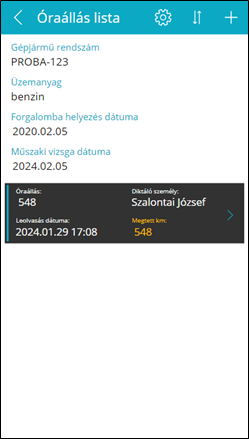
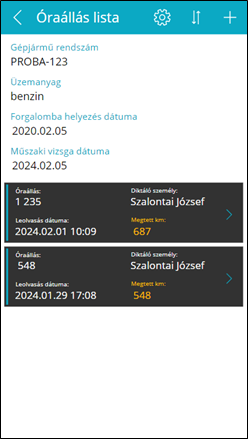
Added/corrected images, more detailed explanations

diff --git a/docs/chapters/mileagerecords/15_NewMileageRecord.md b/docs/chapters/mileagerecords/15_NewMileageRecord.md
@@ -1,5 +1,5 @@
 ---
-grand_parent: Multisoft Km-óraállás diktáló
+grand_parent: Km-óraállás diktáló app
 parent: Óraállások
 title: Új óraállás
 has_children: false
@@ -9,12 +9,13 @@ nav_order: 15
 # Új óraállás
 
 ![new mileage record](static/images/NewMileageRecord.png)
+![new mileage record2](static/images/NewMileageRecord2.png)
 
 Új óraállás rögzítésénél kötelező megadni a következőket:
 -	Aktuális **óraállás**
 -	**Fénykép** a km-óráról (Odometer)
 
-A diktált óraállás értéke nagyobb kell hogy legyen mint az utoljára rögzített óraállás. Amíg ez nem teljesül, addig egy piros X látható az óraállás textbox jobb oldalán és nem lehet végrehajtani a rögzítést.
+A diktált óraállás értéke nagyobb kell hogy legyen mint az utoljára rögzített óraállás. Amíg ez nem teljesül, addig egy piros X látható az óraállás beviteli mező jobb oldalán és nem lehet végrehajtani a rögzítést.
 
 A fénykép hitelesítési célt szolgál. A elkészített fényképen jól látható kell hogy legyen a km-óraállás. A *Fénykép készítés/feltöltés* gombra koppintva a következő történik:
 -	Android app: megnyílik a kamera alkalmazás a fénykép készítéséhez

diff --git a/docs/chapters/login/05_StartPage.md b/docs/chapters/login/05_StartPage.md
@@ -1,5 +1,5 @@
 ---
-parent: Multisoft Km-óraállás diktáló
+parent: Km-óraállás diktáló app
 title: Kezdőlap
 has_children: false
 nav_order: 1
@@ -11,6 +11,6 @@ Amikor betölt az applikáció, a következő kezdő képernyő látható:
 
 ![login](static/images/LoginPage.png)
 
-A gépjárművek listájában az összes hozzátok rendelt gépjármű rendszáma látható, ez az esetek 99%-ában 1 db járművet jelent és ez rögtön ki is van választva. Innen 2 listát lehet lekérni:
--	Óraállások: az adott gépjárműhöz már korábban rögzített km-óraállások
--	Káresemények: az adott gépjárműhöz már korábban rögzített káresemények
+A gépjárművek listájában az adott felhasználóhoz rendelt összes gépjármű rendszáma látható, ez az esetek 99%-ában 1 db járművet jelent és ez rögtön ki is van választva. Innen 2 listát lehet elérni:
+-	**Óraállások**: az adott gépjárműhöz már korábban rögzített km-óraállások
+-	**Káresemények**: az adott gépjárműhöz már korábban rögzített káresemények

diff --git a/docs/chapters/accidents/05_AccidentsList.md b/docs/chapters/accidents/05_AccidentsList.md
@@ -1,16 +1,16 @@
 ---
-parent: Multisoft Km-óraállás diktáló
+parent: Km-óraállás diktáló app
 title: Káresemények
 has_children: true
 nav_order: 3
 ---
 
-# Beállítások
+# Káresemények
 
 ![accidents empty list](static/images/AccidentsListEmpty.png)
 ![accidents list with item](static/images/AccidentsList.png)
 
-Az Káresemény lista oldal nagyon hasonló az Óraállás listához, ezen is a gépjármű főbb adatai láthatóak valamint a korábban felvett káresemények:
+Az Káresemény lista oldal hasonló az Óraállás listához, ezen is láthatóak a gépjármű főbb adatai valamint a korábban felvett káresemények:
 -	Üres lista esetén az „Ehhez a gépjárműhöz még nem jelentettek káreseményt” felirat jelenik meg
 -	A lista görgethető ha már nem férnek ki a képernyőre a káresemények
 -	Egy listaelemre koppintva az adott káresemény részletei jelennek meg egy újabb lapon

diff --git a/docs/index.md b/docs/index.md
@@ -1,10 +1,10 @@
 ---
-title: Multisoft Km-óraállás diktáló
+title: Km-óraállás diktáló app
 has_children: true
 nav_order: 10
 ---
-# Multisoft Km-óraállás diktáló
+# Km-óraállás diktáló app
 
 ## Az applikáció célja
-A Multisoft Km-óraállás diktáló applikáció célja kényelmesebbé tenni a Multisoft Kft tulajdonában lévő személygépjárművek havonta esedékes km-óraállásainak bediktálását. Az applikációban továbbá lehetőség van a gépjárművekkel történt káresemények rögzítésére is.
+A Km-óraállás diktáló applikáció célja kényelmesebbé tenni a Multisoft Kft tulajdonában lévő személygépjárművek havonta esedékes km-óraállásainak bediktálását. Az applikációban továbbá lehetőség van a gépjárművekkel történt káresemények rögzítésére is.
 

diff --git a/docs/chapters/mileagerecords/05_MileageRecordsList.md b/docs/chapters/mileagerecords/05_MileageRecordsList.md
@@ -1,5 +1,5 @@
 ---
-parent: Multisoft Km-óraállás diktáló
+parent: Km-óraállás diktáló app
 title: Óraállások
 has_children: true
 nav_order: 2
@@ -26,3 +26,5 @@ A **toolbar**on a következő elemek láthatóak (balról jobbra haladva):
 -	Beállítások
 -	Rendezés leolvasás dátuma szerint növekvő/csökkenő sorrendben
 -	Új óraállás felvétele
+
+**Fontos**: navigálni az oldalak között az androidos *Back* gombbal/mozdulattal **nem** lehet. Ehhez a **toolbar** bal oldalán található *Vissza* gombot kell használni. Az androidos *Back* funkció az applikácóból való kilépésre szolgál.

diff --git a/docs/chapters/mileagerecords/20_ReminderSettings.md b/docs/chapters/mileagerecords/20_ReminderSettings.md
@@ -1,5 +1,5 @@
 ---
-grand_parent: Multisoft Km-óraállás diktáló
+grand_parent: Km-óraállás diktáló app
 parent: Óraállások
 title: Beállítások
 has_children: false
@@ -13,3 +13,5 @@ nav_order: 20
 A beállítások oldalon a következő opciók találhatóak:
 -	Diktálási értesítő (email) ki-bekapcsolása
 -	A hónap hanyadik napján jöjjön email értesítés
+
+A diktálási értesítő email az adott felhasználó email címére érkezik minden hónap azon napján amelyet a felhasználó beállít. Az alapértelmezett beállítás minden hónap 1. napja.

diff --git a/docs/chapters/accidents/15_NewAccident.md b/docs/chapters/accidents/15_NewAccident.md
@@ -1,5 +1,5 @@
 ---
-grand_parent: Multisoft Km-óraállás diktáló
+grand_parent: Km-óraállás diktáló app
 parent: Káresemények
 title: Új káresemény
 has_children: false
@@ -9,6 +9,7 @@ nav_order: 15
 # Új káresemény
 
 ![new accident](static/images/NewAccident.png)
+![new accident2](static/images/NewAccident2.png)
 
 Új káresemény rögzítésénél kötelező megadni a következőket:
 -	Baleset rövid **leírás**a
